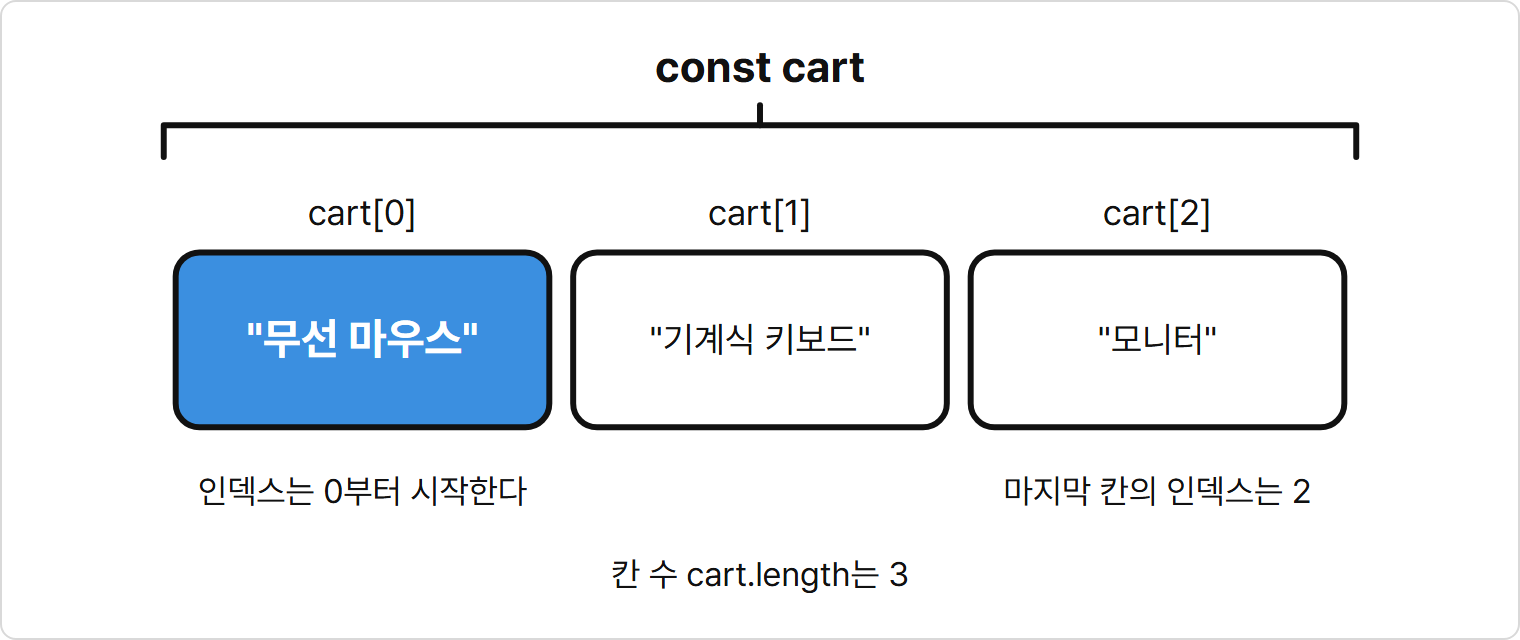
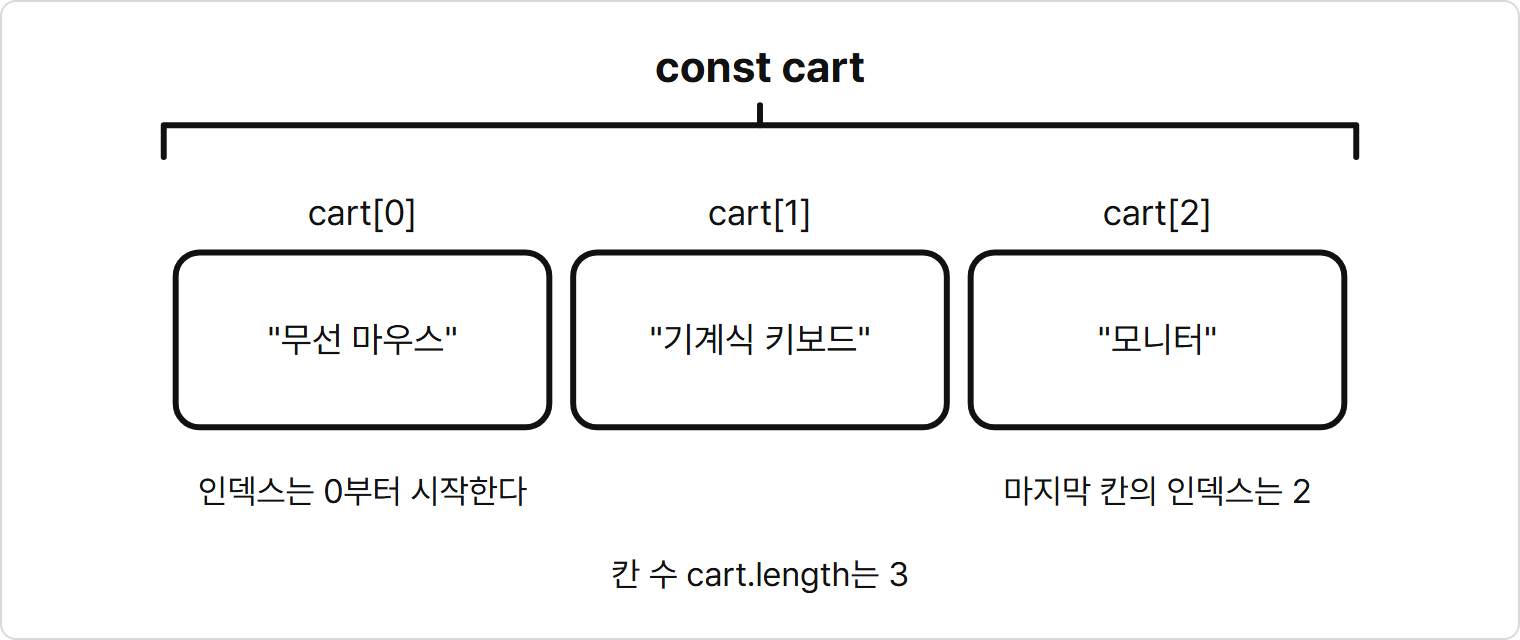
2장과 3장 그림을 흑백으로 다시 캡처
- const-object, array-index 그림에서 파랑 채움과 첫 칸 강조를 뺌
- 2장 생성 이미지 자리의 스타일 줄을 흑백 기준으로 고침

Changed region(s): [[0.0928, 0.375, 0.3711, 0.6875]]

diff --git a/.book/figures/02/const-object.html b/.book/figures/02/const-object.html
@@ -6,7 +6,8 @@
   <!--
     개념 그림 틀. 복사해서 .book/figures/{NN}/{그림 이름}.html로 저장하고 <svg> 안만 바꾼다.
     스타일 기준: assets/style-ref/의 선 그림(굵기 일정한 검정 외곽선, 흰 배경, 평면 채색)
-    색은 세 가지만 쓴다: 흰색(바탕) · 검정 #111111(선 · 글자) · 강조 파랑 #3B8FE0(핵심 한 곳의 채움)
+    색은 흰색(바탕)과 검정 #111111(선 · 글자)만 쓴다
+    파랑 #3B8FE0(.accent)은 색이 없으면 주인공이 배경에 묻힐 때만 쓰고, 그 이유를 여기에 적는다
     그림자 · 그라데이션 · 회색 · 다른 색은 쓰지 않는다
     캡처: node .claude/skills/book-manuscript/scripts/capture-figure.mjs <이 파일> book/images/{NN}/{그림 이름}.png
   -->
@@ -26,12 +27,12 @@
   <!-- 폭은 760 고정. 높이만 그림에 맞춘다 -->
   <svg id="figure" width="760" height="300" viewBox="0 0 760 300" xmlns="http://www.w3.org/2000/svg">
     <!-- 2장 2-4: const 명판이 붙은 객체 상자 -->
-    <rect class="accent" x="40" y="100" width="220" height="96" rx="14"/>
+    <rect class="shape" x="40" y="100" width="220" height="96" rx="14"/>
     <circle class="shape" cx="60" cy="118" r="5"/>
     <circle class="shape" cx="240" cy="118" r="5"/>
     <circle class="shape" cx="60" cy="178" r="5"/>
     <circle class="shape" cx="240" cy="178" r="5"/>
-    <text class="on-accent" x="150" y="156" text-anchor="middle">const member</text>
+    <text class="title" x="150" y="156" text-anchor="middle">const member</text>
     <text class="caption" x="150" y="236" text-anchor="middle">명판은 다른 상자로 옮길 수 없다</text>
 
     <path class="line" d="M 272 148 L 432 148"/>

diff --git a/.book/figures/03/array-index.html b/.book/figures/03/array-index.html
@@ -6,7 +6,8 @@
   <!--
     개념 그림 틀. 복사해서 .book/figures/{NN}/{그림 이름}.html로 저장하고 <svg> 안만 바꾼다.
     스타일 기준: assets/style-ref/의 선 그림(굵기 일정한 검정 외곽선, 흰 배경, 평면 채색)
-    색은 세 가지만 쓴다: 흰색(바탕) · 검정 #111111(선 · 글자) · 강조 파랑 #3B8FE0(핵심 한 곳의 채움)
+    색은 흰색(바탕)과 검정 #111111(선 · 글자)만 쓴다
+    파랑 #3B8FE0(.accent)은 색이 없으면 주인공이 배경에 묻힐 때만 쓰고, 그 이유를 여기에 적는다
     그림자 · 그라데이션 · 회색 · 다른 색은 쓰지 않는다
     캡처: node .claude/skills/book-manuscript/scripts/capture-figure.mjs <이 파일> book/images/{NN}/{그림 이름}.png
   -->
@@ -34,10 +35,10 @@
     <text class="text" x="380" y="112" text-anchor="middle">cart[1]</text>
     <text class="text" x="580" y="112" text-anchor="middle">cart[2]</text>
 
-    <rect class="accent" x="86" y="126" width="188" height="88" rx="12"/>
+    <rect class="shape" x="86" y="126" width="188" height="88" rx="12"/>
     <rect class="shape" x="286" y="126" width="188" height="88" rx="12"/>
     <rect class="shape" x="486" y="126" width="188" height="88" rx="12"/>
-    <text class="on-accent" x="180" y="177" text-anchor="middle">"무선 마우스"</text>
+    <text class="text" x="180" y="176" text-anchor="middle">"무선 마우스"</text>
     <text class="text" x="380" y="176" text-anchor="middle">"기계식 키보드"</text>
     <text class="text" x="580" y="176" text-anchor="middle">"모니터"</text>
 

diff --git a/book/02장-변수와-자료형.md b/book/02장-변수와-자료형.md
@@ -171,8 +171,8 @@ console.log("재고:", stock);
 장면: 왼쪽에는 손이 stock이라고 적힌 포스트잇을 숫자 10 상자에서 떼어 숫자 9 상자에 붙인다. 오른쪽에는 shopName이라고 적힌 명판이 나사 네 개로 문에 박혀 있다.
 그림 속 글자: stock, 10, 9, shopName
 비율: 가로 3:2
-스타일: 굵기가 일정한 검정 외곽선의 단순한 선 그림. 흰 배경. 그림자와 그라데이션 없음. 색은 흰색, 검정, 파랑(#3B8FE0) 세 가지만 쓰고, 파랑은 포스트잇 한 곳만 평면으로 채운다.
-참고 그림: book-manuscript/assets/style-ref/line-art-shark.png, line-art-accent.png
+스타일: 굵기가 일정한 검정 외곽선의 단순한 선 그림. 흰 배경. 그림자와 그라데이션 없음. 색은 흰색과 검정만 쓴다.
+참고 그림: book-manuscript/assets/style-ref/line-art-shark.png
 ```
 
 포스트잇 `stock`은 `9`로 옮겨 붙일 수 있지만, 명판 `shopName`은 처음 박은 자리에 그대로 있습니다.
